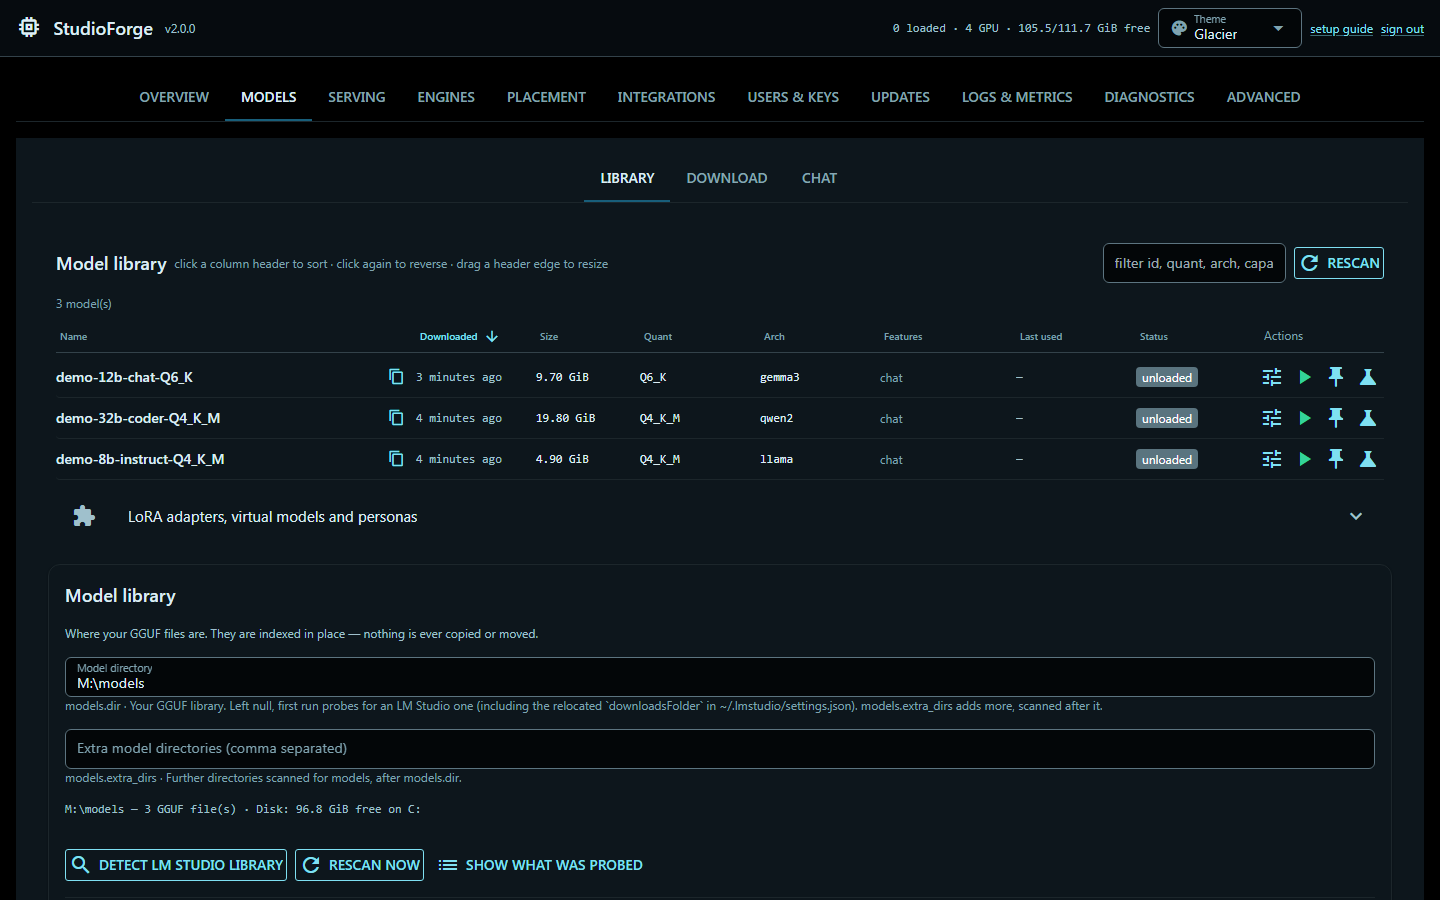
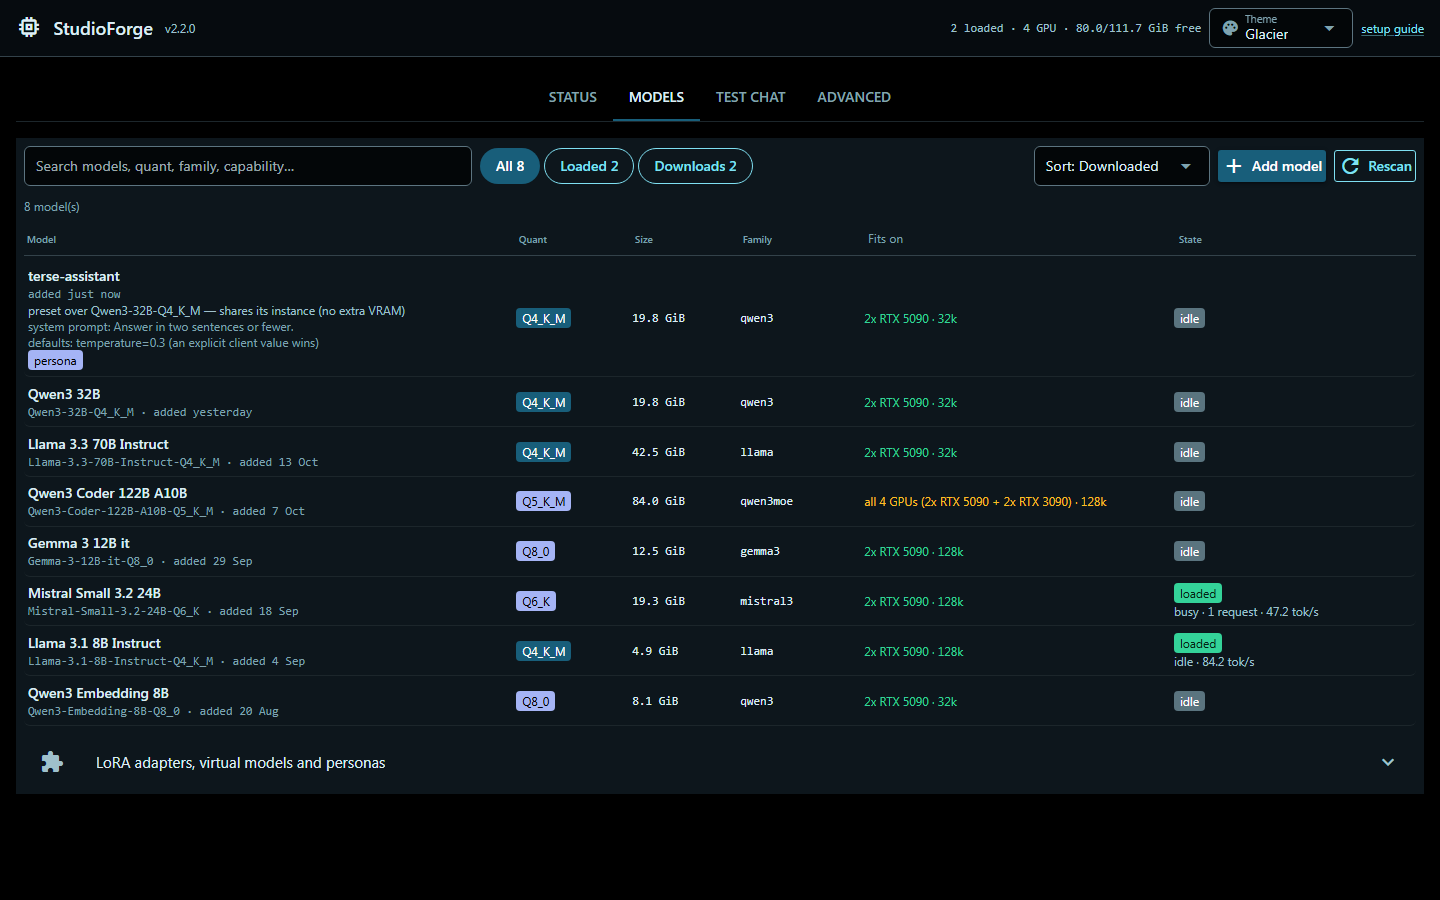
docs: README opening screenshots and What it looks like on the four-tab panel; panel.md screenshots

diff --git a/README.md b/README.md
@@ -6,12 +6,12 @@
 
 <table>
   <tr>
-    <td width="50%"><img src="docs/screenshots/readme/panel-overview.png" alt="StudioForge control panel Overview in the Glacier theme: base URL, four GPU cards with VRAM bars and no model loaded"><br><sub><b>Overview.</b> The base URL to paste into any OpenAI client, every GPU with its VRAM and load, and what is loaded right now.</sub></td>
-    <td width="50%"><img src="docs/screenshots/readme/panel-models.png" alt="StudioForge Models tab listing three indexed GGUF models with size, quant and architecture"><br><sub><b>Models.</b> Your GGUF library, indexed in place: size, quant, architecture and load state, with load, pin and benchmark actions.</sub></td>
+    <td width="50%"><img src="docs/screenshots/readme/panel-status.png" alt="StudioForge Status tab in the Glacier theme: health, four GPU cards with VRAM bars and what is on each, and two loaded models with busy or idle state and tokens per second"><br><sub><b>Status.</b> Health, every GPU and what is on it, and the loaded models: busy or idle, tokens per second. Nothing to configure here.</sub></td>
+    <td width="50%"><img src="docs/screenshots/readme/panel-model-drawer.png" alt="StudioForge Models tab with a model's details drawer open: the planner's recommended GPUs, context and KV type are pre-filled and a VRAM bar per GPU is drawn before the Load button"><br><sub><b>Models.</b> One searchable table and a details drawer per model: the planner's recommended GPUs, context and KV type are pre-filled, and the fit is drawn per GPU before you press Load.</sub></td>
   </tr>
   <tr>
-    <td width="50%"><img src="docs/screenshots/readme/panel-integrations.png" alt="StudioForge Integrations tab with copy-paste connection snippets for OpenClaw, the OpenAI and Anthropic Python SDKs and DisPatch"><br><sub><b>Integrations.</b> Copy-paste connection snippets for OpenAI-compatible clients, filled in with your server's address and a model.</sub></td>
-    <td width="50%"><img src="docs/screenshots/readme/setup-wizard.png" alt="StudioForge setup guide, step 1: create the owner account"><br><sub><b>Setup guide.</b> Eight optional steps from owner account to network exposure, starting with step 1 here.</sub></td>
+    <td width="50%"><img src="docs/screenshots/readme/panel-test-chat.png" alt="StudioForge Test Chat tab: a streamed reply with time to first token, prefill and decode speed, and a Copy as curl button"><br><sub><b>Test Chat.</b> Talk to a loaded model: streaming reply with time to first token and tokens per second, and a copy-as-curl button.</sub></td>
+    <td width="50%"><img src="docs/screenshots/readme/panel-advanced.png" alt="StudioForge Advanced tab: a left menu of Serving and network, GPUs and placement, Accounts and keys, Engines, Watchdog, Catalog, Integrations, Peers, Logs, Config, Diagnostics and About, with the Integrations page open"><br><sub><b>Advanced.</b> Everything else, in a left menu: serving and network, accounts and keys, engines, watchdog, integrations, logs, config, diagnostics.</sub></td>
   </tr>
 </table>
 
@@ -486,17 +486,15 @@ of priority tiers, the lease etiquette and one failure-code table for both servi
 
 ## What it looks like
 
-Every number in the panel is the *actual* one the engine reports — context, slots, VRAM per card:
+The panel has four tabs: **Status**, **Models**, **Test Chat** and **Advanced** (the old tab names still work in links;
+[`docs/panel.md`](docs/panel.md) maps every control to its place). Every number in it is the *actual* one the engine
+reports: context, slots, VRAM per card.
 
-![Dashboard: GPUs, who holds the VRAM, standing GPU leases, and each loaded model with its live slots](docs/images/dashboard.png)
-
-| Setup — a checklist, not a YAML file | Models — the library, indexed in place |
+| Models: search, filter, per-row state | Models > Downloads: add by repo id, search, queue |
 | --- | --- |
-| ![Setup checklist](docs/images/setup.png) | ![Model library](docs/images/models.png) |
+| ![Models: the library as one table with All, Loaded and Downloads chips, the quant, size, family, where it fits and its state](docs/screenshots/readme/panel-models.png) | ![Downloads: add a model by Hugging Face repo id or link, search, and the queue with progress](docs/screenshots/readme/panel-downloads.png) |
 
-![Download: search Hugging Face and queue GGUF downloads straight into your model directory](docs/images/download.png)
-
-![Server: health, bind address, gateway port, and every runtime setting in one place](docs/images/server.png)
+![Setup guide: eight optional steps from the owner account to network exposure, starting with step 1](docs/screenshots/readme/setup-wizard.png)
 
 On Windows, the tray starts the server, restarts it if it crashes, and keeps the everyday actions
 one right-click away:
@@ -581,6 +579,7 @@ The same from a terminal, on any platform: `studioforge serve --open`, `studiofo
 
 ## Documentation
 
+- [`docs/panel.md`](docs/panel.md) — the four-tab control panel: where every control lives, old links, screenshots
 - [`docs/SECURITY.md`](docs/SECURITY.md) — who may do what: bind rules, scoped keys, TLS, MCP, the audit log
 - [`docs/CLI.md`](docs/CLI.md) — every `studioforge` command (generated)
 - [`docs/SETUP.md`](docs/SETUP.md) — first run, page by page; GPUs, engine, network, downloads; headless

diff --git a/docs/screenshots/readme/README_SNIPPET.md b/docs/screenshots/readme/README_SNIPPET.md
@@ -1,10 +1,10 @@
 <table>
   <tr>
-    <td width="50%"><img src="docs/screenshots/readme/panel-overview.png" alt="StudioForge control panel Overview in the Glacier theme: base URL, four GPU cards with VRAM bars and no model loaded"><br><sub><b>Overview.</b> The base URL to paste into any OpenAI client, every GPU with its VRAM and load, and what is loaded right now.</sub></td>
-    <td width="50%"><img src="docs/screenshots/readme/panel-models.png" alt="StudioForge Models tab listing three indexed GGUF models with size, quant and architecture"><br><sub><b>Models.</b> Your GGUF library, indexed in place: size, quant, architecture and load state, with load, pin and benchmark actions.</sub></td>
+    <td width="50%"><img src="docs/screenshots/readme/panel-status.png" alt="StudioForge Status tab in the Glacier theme: health, four GPU cards with VRAM bars and what is on each, and two loaded models with busy or idle state and tokens per second"><br><sub><b>Status.</b> Health, every GPU and what is on it, and the loaded models: busy or idle, tokens per second. Nothing to configure here.</sub></td>
+    <td width="50%"><img src="docs/screenshots/readme/panel-model-drawer.png" alt="StudioForge Models tab with a model's details drawer open: the planner's recommended GPUs, context and KV type are pre-filled and a VRAM bar per GPU is drawn before the Load button"><br><sub><b>Models.</b> One searchable table and a details drawer per model: the planner's recommended GPUs, context and KV type are pre-filled, and the fit is drawn per GPU before you press Load.</sub></td>
   </tr>
   <tr>
-    <td width="50%"><img src="docs/screenshots/readme/panel-integrations.png" alt="StudioForge Integrations tab with copy-paste connection snippets for OpenClaw, the OpenAI and Anthropic Python SDKs and DisPatch"><br><sub><b>Integrations.</b> Copy-paste connection snippets for OpenAI-compatible clients, filled in with your server's address and a model.</sub></td>
-    <td width="50%"><img src="docs/screenshots/readme/setup-wizard.png" alt="StudioForge setup guide, step 1: create the owner account"><br><sub><b>Setup guide.</b> Eight optional steps from owner account to network exposure, starting with step 1 here.</sub></td>
+    <td width="50%"><img src="docs/screenshots/readme/panel-test-chat.png" alt="StudioForge Test Chat tab: a streamed reply with time to first token, prefill and decode speed, and a Copy as curl button"><br><sub><b>Test Chat.</b> Talk to a loaded model: streaming reply with time to first token and tokens per second, and a copy-as-curl button.</sub></td>
+    <td width="50%"><img src="docs/screenshots/readme/panel-advanced.png" alt="StudioForge Advanced tab: a left menu of Serving and network, GPUs and placement, Accounts and keys, Engines, Watchdog, Catalog, Integrations, Peers, Logs, Config, Diagnostics and About, with the Integrations page open"><br><sub><b>Advanced.</b> Everything else, in a left menu: serving and network, accounts and keys, engines, watchdog, integrations, logs, config, diagnostics.</sub></td>
   </tr>
 </table>

diff --git a/docs/panel.md b/docs/panel.md
@@ -12,6 +12,37 @@ The panel (`:8080`) has exactly four top-level tabs, in this order:
 Advanced sub-pages: Serving & network, GPUs & placement, Accounts & keys, Engines, Watchdog & recovery,
 Catalog & downloads, Integrations, Peers, Logs & metrics, Config, Diagnostics, About & updates.
 
+## Screenshots
+
+Glacier theme, from a scratch rig (`scripts/panel_demo.py`: fake GPUs and invented models, nothing loads on a real
+GPU), captured by `scripts/capture_panel.py`. Both refuse any port outside 18080-18199.
+
+| | |
+|---|---|
+| ![Status](screenshots/readme/panel-status.png) | ![Models](screenshots/readme/panel-models.png) |
+| **Status**: health, GPUs, loaded models | **Models**: one table, chips, per-row state |
+| ![Model drawer](screenshots/readme/panel-model-drawer.png) | ![Downloads](screenshots/readme/panel-downloads.png) |
+| **The details drawer**: recommended placement pre-filled, per-GPU fit bars before Load | **Downloads chip**: add by repo id or link, search, queue |
+| ![Test Chat](screenshots/readme/panel-test-chat.png) | ![Advanced](screenshots/readme/panel-advanced.png) |
+| **Test Chat**: TTFT, tok/s, Copy as curl, Load options | **Advanced**: left menu (Integrations page shown) |
+
+## The Models page
+
+* The table: friendly name (the exact id under it), quant badge, size, family, "Fits on" (the catalog's recommended
+  placement for the model, in the planner's words: `2x RTX 5090 · 128k`), and state. Click a column header or use
+  the sort menu; the search box matches the id, the friendly name, quant, family and capabilities.
+* State is one of idle, loading (with how long it has been going), loaded (busy or idle, tok/s) or error (the
+  catalog's error code and its plain sentence, e.g. `[insufficient_vram] ...`), plus `pinned` and `leased` badges.
+* The drawer (click a row, or `?section=Models&model=<id>`): **Load** is pre-filled in this order, field by field:
+  what is running now (for a reload), the model's saved settings, the planner's recommended `load_args`, the
+  server's defaults. The per-GPU bars and the verdict come from `manager.plan_preview` and update as you change the
+  GPUs, context, KV type or slots; **Load** is withheld while the check says it cannot fit (a reload of a running model
+  is never withheld, because the dry run still counts the running copy). **Restart as it is** is the old "Reload
+  this model" (`manager.load(force=True)`, no arguments). Manage holds Pin, Test, Benchmark and Delete; Sampler
+  defaults, Virtual models & presets and Aliases follow. "All settings..." opens the original three-tier dialog.
+* Every box-changing control (pin, delete, save defaults, restart) is disabled with the reason for a remote viewer on
+  an open install (the D32 rule), exactly like the old table's. Loading and unloading stay open, as before.
+
 ## How it is built
 
 * `src/studioforge/gui/nav.py` is the single registry: `TOP_TABS` (four entries), `ADVANCED_PAGES`
